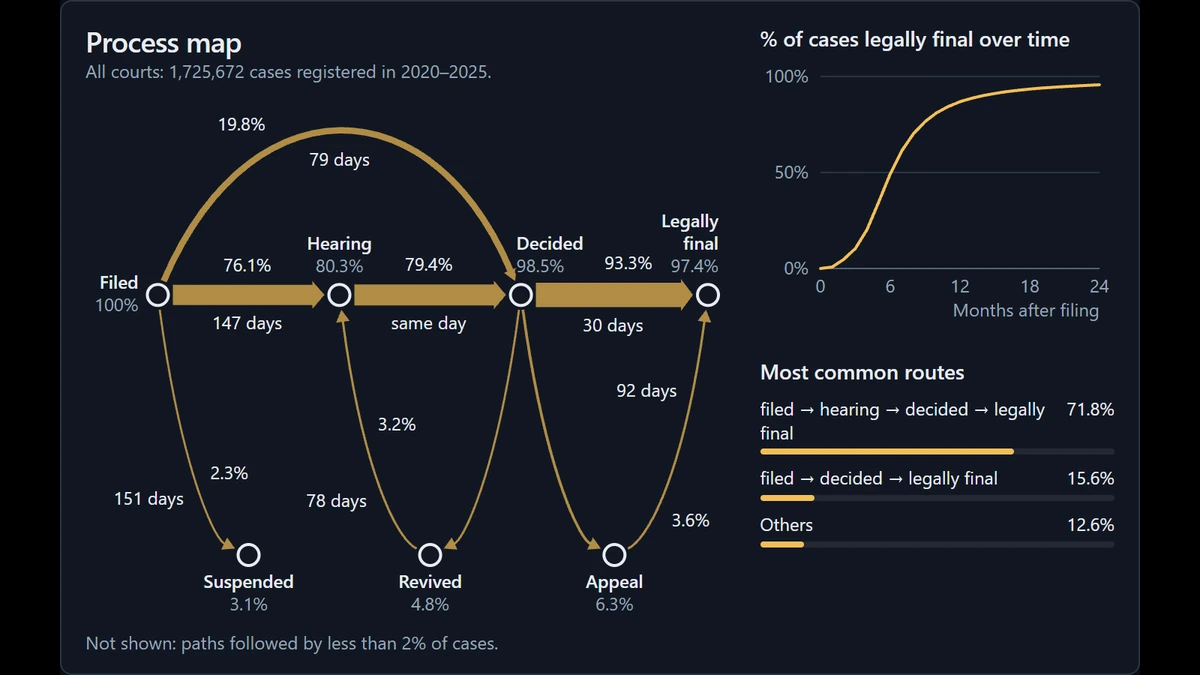
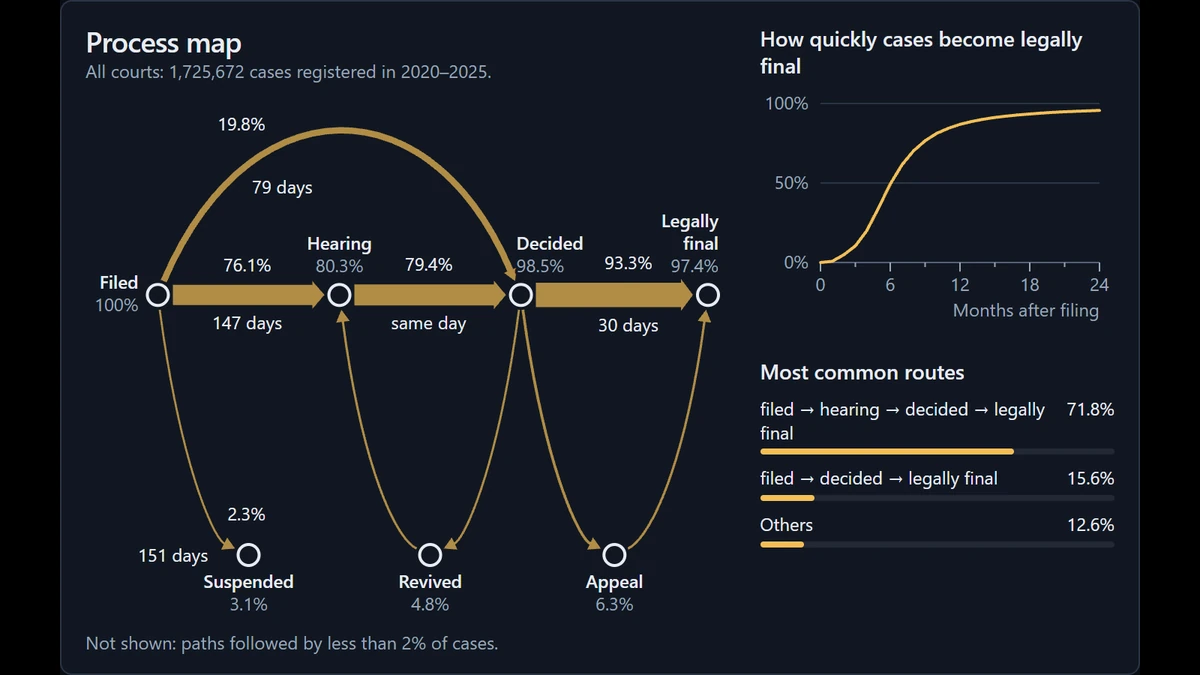
Process map: "How quickly cases become legally final", month ticks, labels at 45° on the arcs
- The curve's title is Mark's pick, and its x axis has ticks every 3
  months, longer every 6.
- An arrow's share and wait sit directly across it from each other. On
  the arcs below, only where the arc runs within 7° of 45°; where they
  can't be shown there, they wait for a hover.

diff --git a/demo/src/views/map.js b/demo/src/views/map.js
@@ -29,6 +29,7 @@ const TILT = 0.47; // the slope at which an arc below the row reaches its bottom
 const CLEAR = 40; // px: a label always shown is this much nearer its own arrow than any other, less 2 px
                   // for each px of the arrow's width, down to 12: a thick arrow claims its labels more plainly
 const SPACE = 8; // px: and at least this far from any other arrow's label
+const SLANT = 7; // degrees: on a diagonal arrow, labels go where it runs within this of 45°
 
 export function createMap(host, data) {
   const meta = h('p', { class: 'sd-case-meta' });
@@ -44,7 +45,7 @@ export function createMap(host, data) {
     h('div', { class: 'sd-map-flow' },
       h('div', { class: 'sd-case' }, h('p', { class: 'sd-case-title' }, 'Process map'), meta), mapBox, rest),
     h('div', { class: 'sd-curves' },
-      h('div', { class: 'sd-half' }, h('p', { class: 'sd-cal-title' }, '% of cases legally final over time'), legend, curveBox),
+      h('div', { class: 'sd-half' }, h('p', { class: 'sd-cal-title' }, 'How quickly cases become legally final'), legend, curveBox),
       h('div', { class: 'sd-half' }, h('p', { class: 'sd-cal-title', id: 'sd-routes-title' }, 'Most common routes'), routeList)),
     table);
   host.append(el);
@@ -283,7 +284,7 @@ export function createMap(host, data) {
       curveSvg.replaceChildren();
       return null;
     }
-    const margin = { top: 8, right: 10, bottom: 36, left: 40 };
+    const margin = { top: 8, right: 10, bottom: 40, left: 40 };
     const x = (month) => margin.left + (month / MONTHS) * (width - margin.left - margin.right);
     const y = (p) => height - margin.bottom - p * (height - margin.top - margin.bottom);
     const path = (series) => series.slice(0, MONTHS + 1).map((v, m) => `${m ? 'L' : 'M'}${x(m).toFixed(1)},${y(v).toFixed(1)}`).join('');
@@ -294,9 +295,11 @@ export function createMap(host, data) {
       ticks.push({ tick, at: y(p) });
       nodes.push(s('line', { class: p === 0 ? 'sd-axis-line' : 'sd-grid', x1: x(0), x2: x(MONTHS), y1: y(p), y2: y(p) }), tick);
     }
+    // Ticks every 3 months, longer every 6, which are labelled (every 12 if they'd be cramped).
     const step = x(6) - x(0) >= 28 ? 6 : 12;
-    for (let m = 0; m <= MONTHS; m += step) {
-      nodes.push(s('text', { class: 'sd-tick', x: x(m), y: height - 20, 'text-anchor': 'middle' }, String(m)));
+    for (let m = 0; m <= MONTHS; m += 3) {
+      nodes.push(s('line', { class: 'sd-axis-tick', x1: x(m), x2: x(m), y1: y(0), y2: y(0) + (m % 6 ? 3 : 6) }));
+      if (m % step === 0) nodes.push(s('text', { class: 'sd-tick', x: x(m), y: height - 21, 'text-anchor': 'middle' }, String(m)));
     }
     nodes.push(s('text', { class: 'sd-tick', x: x(MONTHS), y: height - 4, 'text-anchor': 'end' }, 'Months after filing'));
     nodes.push(s('path', { class: values ? 'sd-curve-all' : 'sd-forecast-line', d: path(all) }));
@@ -453,13 +456,15 @@ export function nearer(bounds, marks, own, twin = null) {
 }
 
 /**
- * Where an arrow's labels go: its share on one side and its wait on the other, the share above (or on
- * the left of an upright arrow) where it can be, each at the first of a few places along it that clears
- * the map's edges, the boxes in `taken` and the arrows (`marks`, as [x, y, radius, arrow]), with text as
- * wide as `measure(text)` gives, and, if `sure`, is plainly the arrow `own`'s (see nearer). Failing that,
- * or `together`, both on one side, on two lines, the left of travel first. Failing that, nothing; or with
- * `fallback`, the share alone where it crosses fewest arrows, but never over other text or off the map.
- * Gives a list of { lines, x, bounds }.
+ * Where an arrow's labels go: its share on one side and its wait directly across from it, the share above
+ * (or on the left of an upright arrow) where it can be, at the first of a few places along it where both
+ * clear the map's edges, the boxes in `taken` and the arrows (`marks`, as [x, y, radius, arrow]), with
+ * text as wide as `measure(text)` gives, and, if `sure`, are plainly the arrow `own`'s (see nearer). The
+ * places are near the middle, or on a diagonal arrow where it runs within SLANT of 45°, so the two labels
+ * sit diagonally across it. Failing that, or `together`, both on one side, on two lines, the left of
+ * travel first, but not on a diagonal arrow alone. Failing that, nothing; or with `fallback`, the share
+ * alone where it crosses fewest arrows, but never over other text or off the map. Gives a list of
+ * { lines, x, bounds }.
  */
 export function place(texts, width, geometry, { width: w, height: h, taken, marks, measure, own = null, twin = null },
   { together = false, sure = true, fallback = false } = {}) {
@@ -485,7 +490,14 @@ export function place(texts, width, geometry, { width: w, height: h, taken, mark
     }
     return best;
   };
-  const along = [0.5, 0.4, 0.6, 0.3, 0.7, 0.2, 0.8];
+  const degrees = (x, y) => (Math.atan2(Math.abs(y), Math.abs(x)) * 180) / Math.PI;
+  const [a, b] = [geometry.at(0), geometry.at(1)];
+  const diagonal = Math.abs(degrees(b[0] - a[0], b[1] - a[1]) - 45) < 35;
+  const off = (t) => Math.abs(degrees(geometry.left(t)[1], geometry.left(t)[0]) - 45); // the arrow's slope there, from 45°
+  const slanted = Array.from({ length: 15 }, (_, i) => 0.15 + i * 0.05).sort((p, q) => off(p) - off(q));
+  const along = diagonal
+    ? slanted.filter((t, i) => off(t) <= SLANT || i < 2)
+    : [0.5, 0.4, 0.6, 0.3, 0.7, 0.2, 0.8];
   const on = (...sides) => sides.flatMap((side) => along.map((t) => [t, side]));
   let least = null;
   // The first of `places` where `lines` clear everything, and `also` too.
@@ -501,12 +513,14 @@ export function place(texts, width, geometry, { width: w, height: h, taken, mark
   const up = ny < -0.2 || (ny <= 0.2 && nx < 0) ? 1 : -1; // the side above, or on the left of an upright arrow
   if (!together && texts.length === 2) {
     for (const side of [up, -up]) {
-      const share = clear([texts[0]], on(side));
-      const wait = share && clear([texts[1]], on(-side), [share.bounds]);
-      if (wait) return [share, wait];
+      for (const t of along) {
+        const share = box([texts[0]], t, side, []);
+        const wait = !share.clashes && box([texts[1]], t, -side, [share.bounds]);
+        if (wait && !wait.clashes) return [share, wait];
+      }
     }
   }
-  if (texts.length === 2) {
+  if (texts.length === 2 && (together || !diagonal)) {
     const both = clear(texts, on(1, -1));
     if (both) return [both];
   }

diff --git a/demo/test/journey.test.js b/demo/test/journey.test.js
@@ -161,6 +161,13 @@ test('an arrow\'s share goes on one side and its wait on the other, clear of wha
   assert.equal(together.length, 1);
   assert.deepEqual(together[0].lines, ['4.4%', '97 days']);
   assert.deepEqual(place(['3.0%'], 4, flat, space).map((b) => b.lines), [['3.0%']]);
+  // On a diagonal arrow, steep at one end and flat at the other, they sit across it where it runs at
+  // about 45°, so the line between them is at about 45° too.
+  const bend = arrow([[100, 40], [100, 140], [150, 240], [250, 240]], 2);
+  const [one, two] = place(['2.3%', '151 days'], 2, bend, space);
+  const centre = (box) => [box.x, (box.bounds[1] + box.bounds[3]) / 2];
+  const [[x1, y1], [x2, y2]] = [centre(one), centre(two)];
+  assert.ok(Math.abs((Math.atan2(Math.abs(y2 - y1), Math.abs(x2 - x1)) * 180) / Math.PI - 45) < 15);
 });
 
 test('labels shown all the time are plainly their arrow\'s; the rest wait for a hover', () => {

diff --git a/demo/src/demo.css b/demo/src/demo.css
@@ -372,6 +372,11 @@
   stroke-width: 1;
 }
 
+[data-demo] .sd-axis-tick {
+  stroke: var(--color-muted);
+  stroke-width: 1;
+}
+
 [data-demo] .sd-event {
   fill: var(--color-text);
   stroke: var(--color-surface);

diff --git a/docs/plan.md b/docs/plan.md
@@ -907,11 +907,11 @@ Added with Mark on 2026-11-25, after the first four PRs: weighting recent traini
   - **The Process map, reworked with Mark the same day, in three rounds.**
     - **First round.** He found it a mess: arrows overlapping everywhere, a distracting hover, and two graphs that could be one, showing the share of cases that *are* legally final. He chose fewer, labelled arrows, from a sketch; a hover that dims the other arrows and their numbers, with no tooltip; and a graph of legally final only.
     - **Second round.** Straight arrows beside curved ones looked strange. Revived and appeal each went to the bottom of an arc below the row, so that decided → revived → hearing and decided → appeal → legally final curve as filing → decided does over the hearing, and suspended straight under filing. Mark chose appeal below the row rather than above, which keeps appeal → revived drawable. Each label is now split: the share on one side of its arrow and the wait on the other. The hover dims the other stages too. The graph was too tall and thin, so it took half the column, and the commonest routes (his pick of three ideas) the other half.
-    - **Third round.** The arc over the hearing was too high: it now rises about a fifth of its span (a third before), and the room goes to the arcs below. Where the map is crowded, as at the bottom right, an arrow's numbers show only on hover, so nobody has to work out which arrow they belong to. Hovering a stage lights all its arrows, and their numbers where they aren't too crowded. Suspended moved to the bottom of an arc between filing and the hearing, like revived and appeal (Mark changed his mind). The key went, as redundant, and the list of moves not drawn became Mark's line, "Not shown: paths followed by less than 2% of cases." The right column starts at the top of the stage, beside the heading, under the title "% of cases legally final over time" (his, with alternatives offered). The curve was still too tall and thin, so it takes the top half of the column and the routes the bottom half, with room to spare ("If there is extra whitespace that is a good thing"). Hovering the curve now shows the percentage on the y axis, with the vertical line kept (Mark: it was good). "Commonest routes" became "Most common routes": those over 5% of cases, then "Others", last.
+    - **Third round.** The arc over the hearing was too high: it now rises about a fifth of its span (a third before), and the room goes to the arcs below. Where the map is crowded, as at the bottom right, an arrow's numbers show only on hover, so nobody has to work out which arrow they belong to. Hovering a stage lights all its arrows, and their numbers where they aren't too crowded. Suspended moved to the bottom of an arc between filing and the hearing, like revived and appeal (Mark changed his mind). The key went, as redundant, and the list of moves not drawn became Mark's line, "Not shown: paths followed by less than 2% of cases." The right column starts at the top of the stage, beside the heading, under the title "How quickly cases become legally final" (his pick from the alternatives offered for his "% of cases legally final over time"), with ticks every 3 months on its x axis, longer every 6. The curve was still too tall and thin, so it takes the top half of the column and the routes the bottom half, with room to spare ("If there is extra whitespace that is a good thing"). Hovering the curve now shows the percentage on the y axis, with the vertical line kept (Mark: it was good). "Commonest routes" became "Most common routes": those over 5% of cases, then "Others", last.
     - **Arrows** are drawn only for moves made by at least 2% of cases (`journey.DRAWN`), and only between stages the layout can join without crossing another (`journey.shape`): straight along the rows, the arc over the hearing, and halves of the arcs below (`map.route`). A move and its reverse sit side by side. That's 9 of the country's 37 moves, and 4 to 12 at a court (median 9). Before the first round, every move of 0.5% or more was drawn, each bowed, so rare long moves crossed the stages: 18 nationally.
     - **The arcs:** the one over the hearing rises 0.22 of its span and the ones below dip half of theirs, up to 1.3 and 1.8 times that where the height allows (2 and 3 times on maps under 400 px wide, which need the room for labels), and the drawing is centred. Each half of an arc below reaches its bottom stage at a slope of about 25° rather than flat, so a line along the bottom row (appeal → revived, drawn at 34 courts) leaves it clear of them.
     - **Moves that would cross a stage** are left out with the rarer ones. Five reach 2% at some court: filed → appeal (13 courts, up to 4.8%), filed → revived (7), suspended → decided (6), appeal → hearing (6) and hearing → appeal (3), so at 22 courts Mark's line "less than 2%" isn't quite all of it; none nationally. Flagged to him. The hidden table still gives screen readers every move, with the middle half of its waits.
-    - **Labels** (`map.place`): the share goes above its arrow (or on the left of an upright one) and the wait on the other side, each wherever along the arrow it clears the stages, the arrows and the labels placed before it, with its text measured in the browser; failing that, both on one side. They're shown all the time only if they also keep 8 px from other arrows' labels and are plainly the arrow's own (`map.nearer`): nearer it than any other arrow but its reverse, by 40 px beside a hairline, 2 px less for each px of the arrow's width, down to 12, since a thick arrow claims its labels more plainly. Otherwise they show only while the arrow is hovered, as clear of the other labels as they can be, and hide those they cover. A stage's hover shows those of its arrows' that clear the rest and are plainly their own among the arrows lit. On a touch screen, a tap lights an arrow or a stage and a tap elsewhere puts it back. Nationally at 1440 × 900, one arrow's numbers (decided → revived) wait for a hover; at a court, up to 3; at 390 px, most do.
+    - **Labels** (`map.place`): the share goes above its arrow (or on the left of an upright one) and the wait directly across from it, wherever along the arrow both clear the stages, the arrows and the labels placed before it, with their text measured in the browser; failing that, both on one side. On a diagonal arrow (the arcs below) they go only where it runs within 7° of 45°, so the line between them is at about 45° too (Mark: they were a little too steep, and the right angle is better even if it means waiting for a hover), and never both on one side. Within 15°, pairs at 30–32° still showed. There, a share inside an arc sits between its two halves, close to both, so at full size nationally only filing → suspended keeps its numbers in view; rounder arcs (tried at 1 and 1.3 times half their span) don't free the others. They're shown all the time only if they also keep 8 px from other arrows' labels and are plainly the arrow's own (`map.nearer`): nearer it than any other arrow but its reverse, by 40 px beside a hairline, 2 px less for each px of the arrow's width, down to 12, since a thick arrow claims its labels more plainly. Otherwise they show only while the arrow is hovered, as clear of the other labels as they can be, and hide those they cover. A stage's hover shows those of its arrows' that clear the rest and are plainly their own among the arrows lit. On a touch screen, a tap lights an arrow or a stage and a tap elsewhere puts it back. Nationally at 1440 × 900, the four halves of the revival and appeal arcs wait for a hover; at a court, up to 5 arrows; at 390 px, most do.
     - **The routes:** the routes taken by more than 5% of cases (`journey.mostCommon`: 2 at 84 courts and nationally, 3 at 2), each with its share and a bar, "closed" or "still open" where they didn't end legally final, then "Others", the rest of the cases (each case takes one route). On a short stage the rarest listed join the others.
     - **The curve's hover:** a vertical line at the nearest month, a dot on each line there, a faint line to the y axis and the value there, nudged apart when the court's and all courts' are close, and the axis's own labels make way. No tooltip.
     - **Checked** on the site's preview at 1440 × 900, 1366 × 650 (the smallest stage, whose map is now 544 × 265) and at 390 px, with a touch screen, for all courts, Děčín, Hradec Králové and Prague 2 (10 arrows, with decided → appeal at 24.4% and appeal → decided at 4.4% side by side). No text overlaps, and no console errors.
